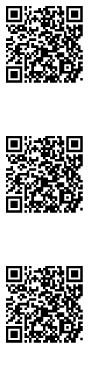
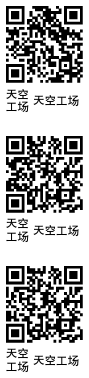
Finished designing type 2015TB.

diff --git a/skylabel.py b/skylabel.py
@@ -60,7 +60,7 @@ class skylabel:
 
     def __init__(
             self, pagesize, qrsize, layout, logowidth, logooffset, textoffset,
-            textsize, defaultPara, matrix=(1, 1),
+            textsize, defaultPara, labelsize, matrix=(1, 1),
             cellsep=(0, 0)):
         self.pagesize = pagesize
         self.qrsize = qrsize
@@ -72,6 +72,7 @@ class skylabel:
         self.matrix = matrix
         self.cellsep = cellsep
         self.defaultPara = defaultPara
+        self.labelsize = labelsize
         self.counter = 0
         self.currentrow = 0
         self.currentcol = 0
@@ -87,7 +88,8 @@ class skylabel:
 
     def genTexPreamable(self):
         return texPreamable + '''\\usepackage[papersize={{{s[0]}mm, {s[1]}mm\
-}}]{{geometry}}\n'''.format(s=self.pagesize) + '''\\begin{document}
+}}]{{geometry}}\n'''.format(s=self.pagesize) + '''\\linespread{0.9}
+\\begin{document}
 \\begin{tikzpicture}[remember picture, overlay, shift=(current page.north west)]
 '''
 
@@ -104,9 +106,9 @@ class skylabel:
             ret += '\\node (qrcode{}) at ({}mm, -{}mm) [anchor=center] '.\
                 format(
                     self.counter,
-                    0.5 * self.pagesize[0] +
+                    0.5 * self.labelsize[0] +
                     (self.currentcol-1)*self.cellsep[0],
-                    0.5 * self.pagesize[0] +
+                    0.5 * self.labelsize[0] +
                     (self.currentrow-1)*self.cellsep[1]
                 )
             ret += '{{\\includesvg[width={}mm]{{./temp/qr{}}}}};\n'.\
@@ -122,16 +124,28 @@ class skylabel:
             pass
         elif self.layout == 'B':
             self.genQRImg(customUrl, para[1])
-            ret += '\\node (qrcode{}) at ({}mm, -{}mm) [anchor=center] '.\
-                format(
+            ret += '''\\node (qrcode{}) at ({}mm, -{}mm) \
+[inner sep=0,anchor=center] '''.format(
                     self.counter,
-                    0.5 * self.pagesize[0] +
+                    0.5 * self.labelsize[0] +
                     (self.currentcol-1)*self.cellsep[0],
-                    0.5 * self.pagesize[0] +
+                    0.5 * self.labelsize[0] +
                     (self.currentrow-1)*self.cellsep[1]
                 )
-            ret += '{' + '\\includesvg[width={}mm]'.format(self.qrsize) + \
-                '{./temp/qr' + str(self.counter) + '}};\n'
+            ret += '{{\\includesvg[width={}mm]{{./temp/qr{}}}}};\n'.\
+                format(self.qrsize, self.counter) + '\\baselineskip=2mm\n'
+            ret += '''\\path (qrcode{c}.south west) -- \
+node[inner sep=0,midway,anchor=west,align=center,font=\\sffamily\\{size}] \
+(logo{c}) {{天空\\\\工场}} (qrcode{c}.south west |- (0mm,-{s}mm);
+'''.format(c=self.counter,
+                size=self.textsize,
+                s=self.labelsize[1] + (self.currentrow-1) * self.cellsep[1])
+            ret += '''\\path (logo{c}.east) -- node\
+[midway,anchor=center,font=\\{size}\\sffamily,align=center] (text{c}) \
+{{{text}}} (logo{c}.east -| qrcode{c}.east);
+'''.format(c=self.counter,
+                size=self.textsize,
+                text=para[0])
             pass
 
         return ret
@@ -143,20 +157,22 @@ types = {
     skylabel(
         pagesize=(50, 80),
         qrsize=45, layout='A', logowidth=35, logooffset=(0, -1),
-        textsize='LARGE', textoffset=(0, -3.5),
-        defaultPara=['天空工场', '天空工场']),
+        textsize='LARGE', textoffset=(0, -3.5), labelsize=(50, 80),
+        defaultPara=[['天空工场', '天空工场']]),
     '5030A':
     skylabel(
         pagesize=(30, 50),
         qrsize=26, layout='A', logowidth=23, logooffset=(0, -1),
-        textsize='large', textoffset=(0, -2.5),
-        defaultPara=['天空工场', '天空工场']),
+        textsize='large', textoffset=(0, -2.5), labelsize=(30, 50),
+        defaultPara=[['天空工场', '天空工场']]),
     '2015TB':  # 20mm x 15mm Triple
     skylabel(
         pagesize=(15, 64),
         qrsize=13, layout='B', logowidth=5, logooffset=(0, 0),
-        textsize='small', textoffset=(0, 0), matrix=(1, 3),
-        cellsep=(0, 22), defaultPara=['天空工场', '天空工场'])
+        textsize='tiny', textoffset=(0, 0), matrix=(1, 3), labelsize=(15, 20),
+        cellsep=(0, 22), defaultPara=[['天空工场', 'Skyworks1'],
+                                      ['天空工场', 'Skyworks2'],
+                                      ['天空工场', 'Skyworks3']])
 }
 
 if __name__ == '__main__':
@@ -195,7 +211,7 @@ if __name__ == '__main__':
         for k, v in types.items():
             tex = v.genTexPreamable()
             for i in range(v.matrix[0] * v.matrix[1]):
-                tex += v.genCell(args.custom_url, v.defaultPara)
+                tex += v.genCell(args.custom_url, v.defaultPara[i])
             pass
             tex += texEnd
             with open('./temp/' + k + '.tex', 'w') as f:
@@ -212,6 +228,7 @@ if __name__ == '__main__':
         with open(args.infile, 'r') as f:
             r = csv.reader(f)
             for i in r:
+                print(i)
                 tex += v.genCell(args.custom_url, i)
         tex += texEnd
         with open('./temp/' + args.outfile + '.tex', 'w') as f:
